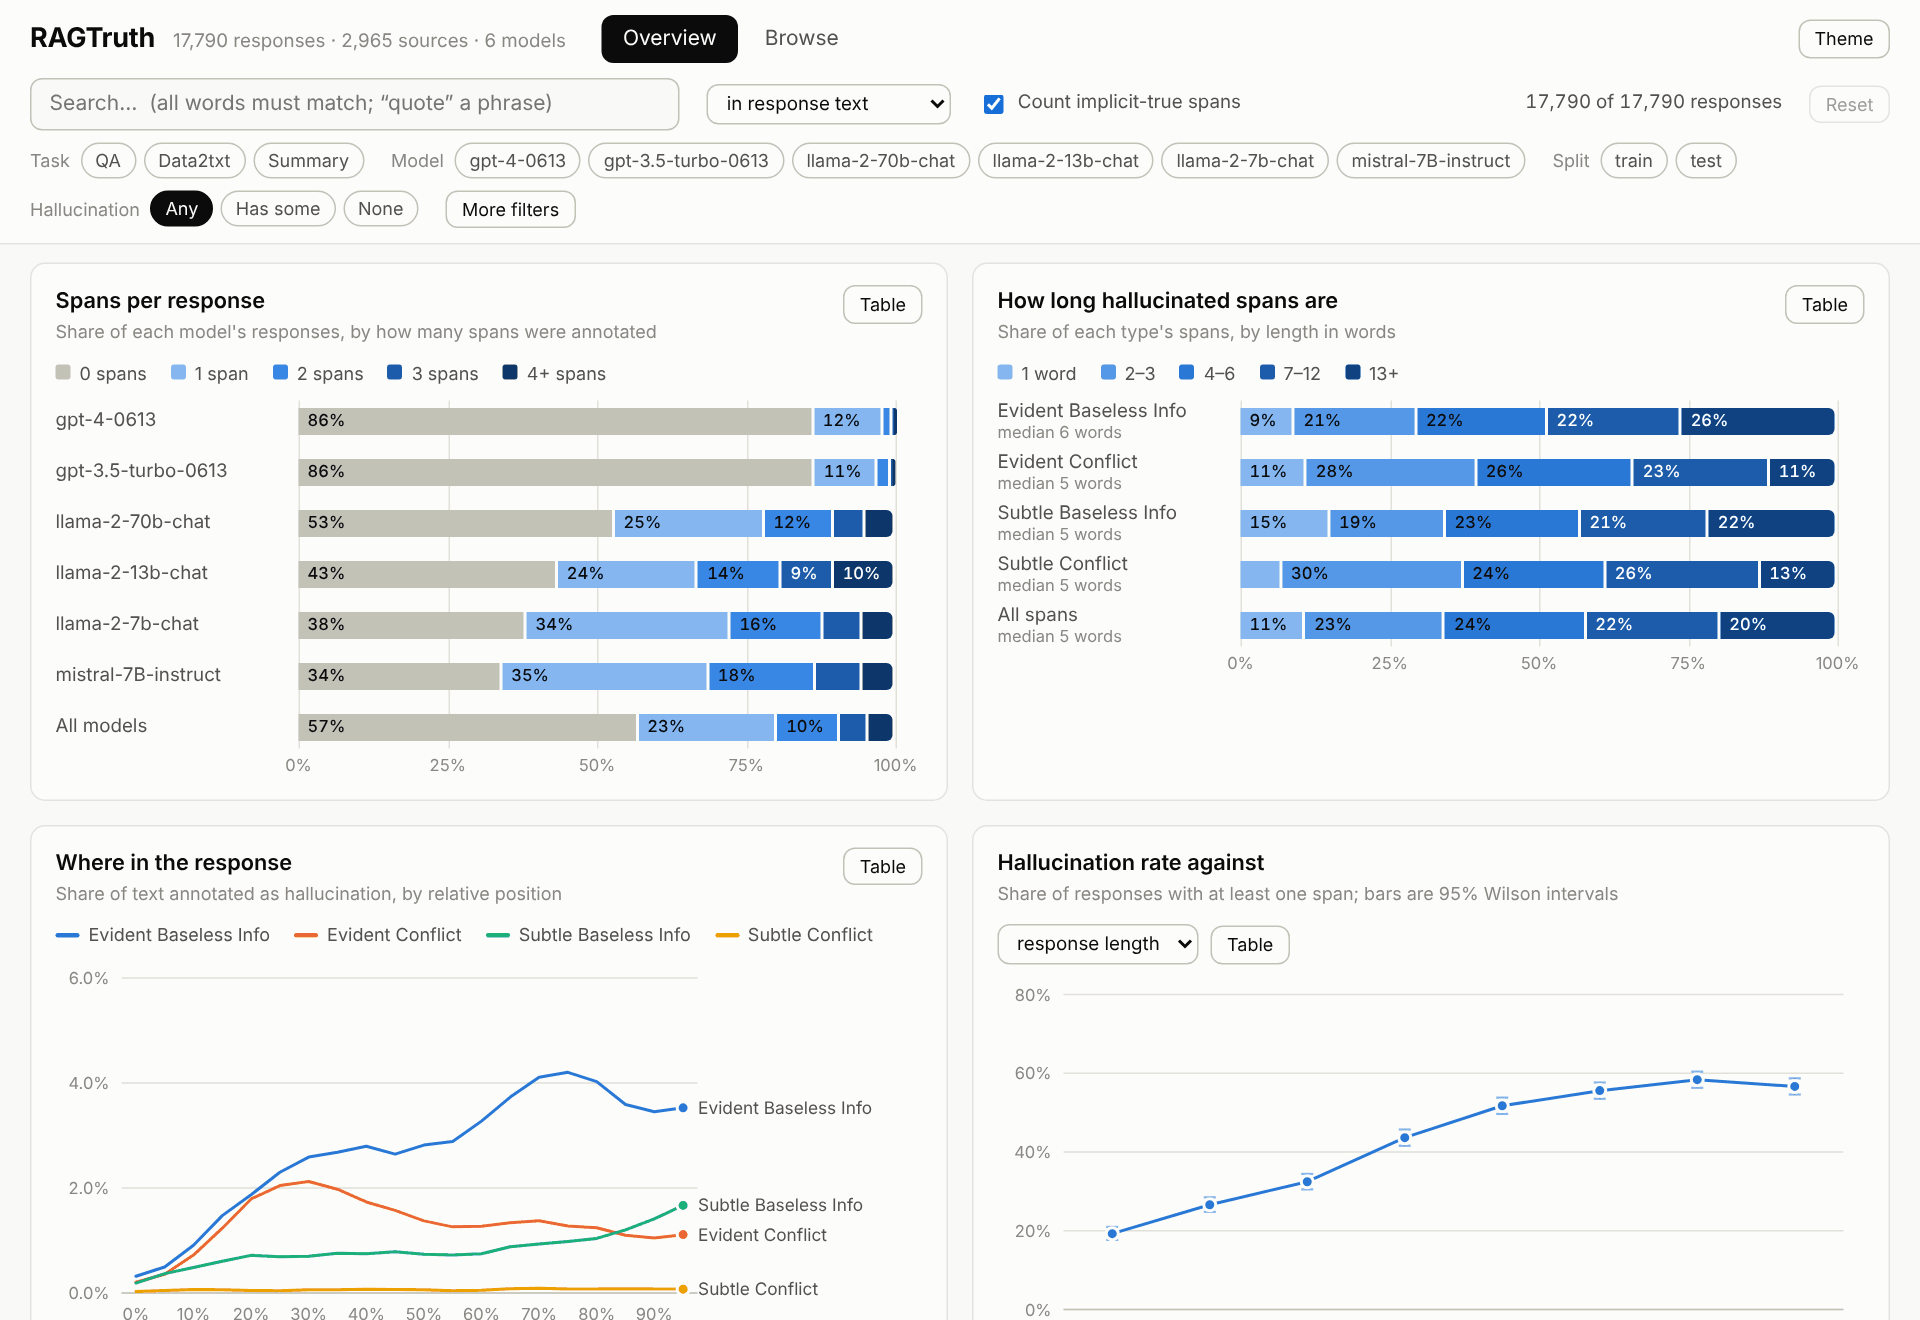
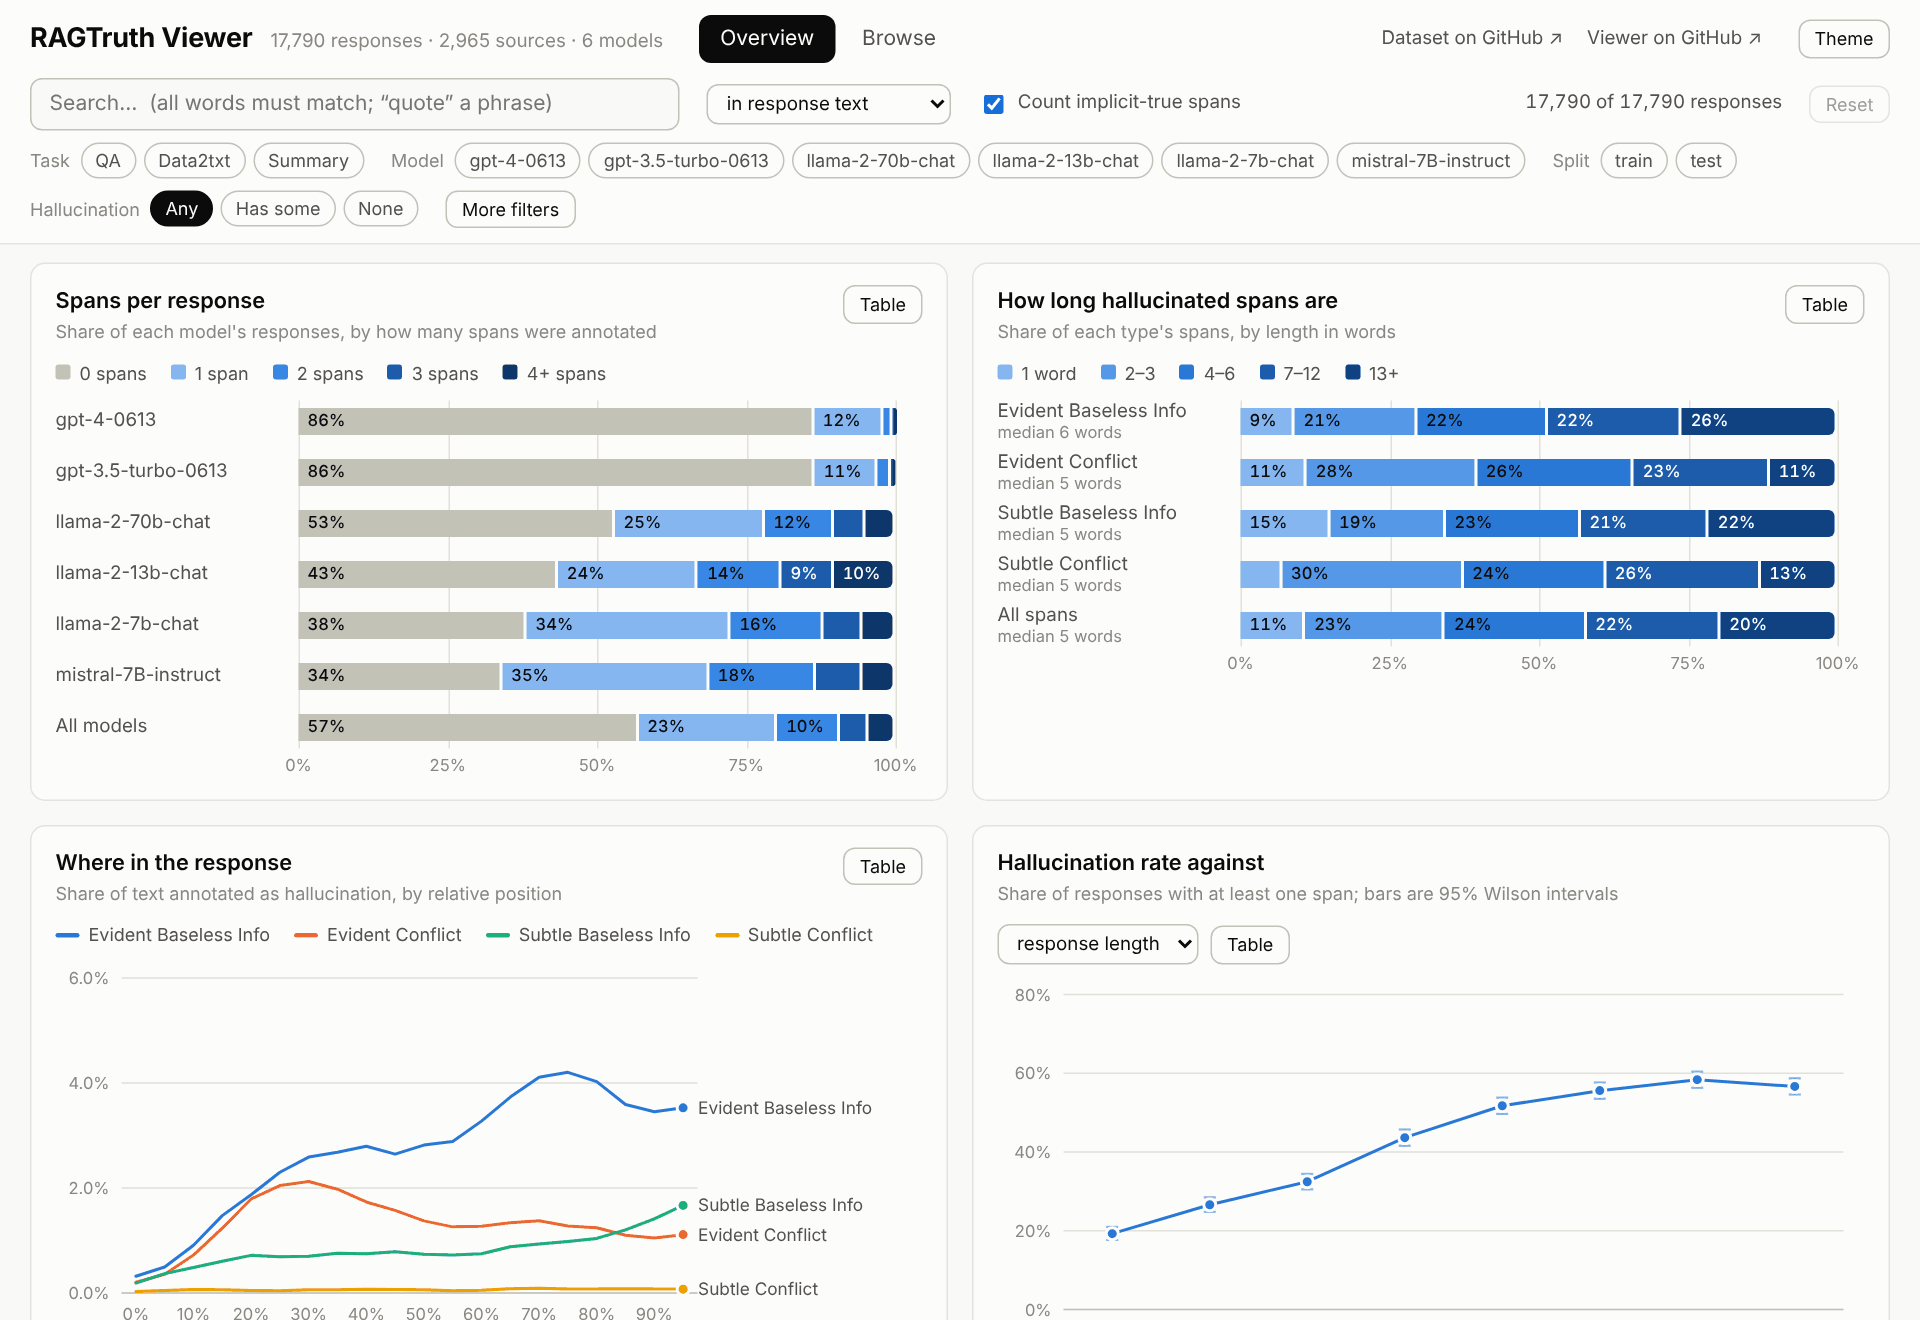
Name the page "RAGTruth Viewer", link both repositories, add the MIT license
- Header title and browser-tab title now read "RAGTruth Viewer"; README,
  justfile and stylesheet use the same name.
- Two links in the header bar, opening in a new tab: the RAGTruth dataset
  repository and this viewer's repository.
- The header row wraps on narrow screens, and the title itself never
  breaks across lines (checked at 1280, 820 and 390 px: no sideways
  scrolling, no console errors).
- LICENSE: the canonical MIT text from github/choosealicense.com, for
  Paul Milovanov; "license": "MIT" in package.json; a License section in
  the README noting that the dataset keeps its own terms.
- README screenshots retaken so they show the new header.

Claude-Session: https://claude.ai/code/session_016GJJcdqNZZ7kHFftnG1Lzm

Changed region(s): [[0.3125, 0.0, 0.4375, 0.0621], [0.0938, 0.0, 0.1562, 0.0621], [0.875, 0.0, 0.9062, 0.0311]]

diff --git a/site/style.css b/site/style.css
@@ -1,4 +1,4 @@
-/* RAGTruth viewer. Colour tokens are the dataviz reference palette (docs: README).
+/* RAGTruth Viewer. Colour tokens are the dataviz reference palette (docs: README).
    Categorical slots 1-4 are the four label types, in fixed order, never recycled:
      --t0 Evident Baseless Info   --t1 Evident Conflict
      --t2 Subtle Baseless Info    --t3 Subtle Conflict                              */
@@ -53,14 +53,17 @@ kbd { font: 11px ui-monospace, monospace; padding: 1px 5px; border: 1px solid va
 
 /* ---------------------------------------------------------------- chrome */
 .chrome { background: var(--surface); border-bottom: 1px solid var(--ring); flex: none; z-index: 20; }
-.top { display: flex; align-items: center; gap: 24px; padding: 10px 20px; }
-.brand { display: flex; align-items: baseline; gap: 12px; }
-.brand h1 { font-size: 18px; font-weight: 650; letter-spacing: -0.01em; }
+.top { display: flex; flex-wrap: wrap; align-items: center; gap: 8px 24px; padding: 10px 20px; }
+.brand { display: flex; flex-wrap: wrap; align-items: baseline; gap: 2px 12px; }
+.brand h1 { font-size: 18px; font-weight: 650; letter-spacing: -0.01em; white-space: nowrap; }
 .tagline { color: var(--muted); font-size: 12.5px; }
 .tabs { display: flex; gap: 4px; margin-right: auto; }
 .tabbtn { border: 0; background: transparent; padding: 6px 14px; border-radius: 8px; cursor: pointer; color: var(--ink2); }
 .tabbtn:hover { background: var(--hover); }
 .tabbtn[aria-selected="true"] { background: var(--ink); color: var(--surface); }
+.links { display: flex; flex-wrap: wrap; gap: 4px 16px; font-size: 12.5px; }
+.links a { color: var(--ink2); text-decoration: none; white-space: nowrap; }
+.links a:hover, .links a:focus-visible { color: var(--ink); text-decoration: underline; }
 
 .filters { padding: 0 20px 10px; display: flex; flex-direction: column; gap: 8px; }
 .frow { display: flex; flex-wrap: wrap; align-items: center; gap: 8px 18px; }

diff --git a/site/index.html b/site/index.html
@@ -3,19 +3,23 @@
 <head>
   <meta charset="utf-8">
   <meta name="viewport" content="width=device-width, initial-scale=1">
-  <title>RAGTruth viewer</title>
+  <title>RAGTruth Viewer</title>
   <link rel="stylesheet" href="style.css">
 </head>
 <body>
   <div class="chrome">
     <header class="top">
       <div class="brand">
-        <h1>RAGTruth</h1>
+        <h1>RAGTruth Viewer</h1>
         <span id="tagline" class="tagline"></span>
       </div>
       <nav class="tabs" role="tablist" aria-label="View">
         <button class="tabbtn" role="tab" data-view="overview" aria-selected="true" title="Aggregate patterns (1)">Overview</button>
         <button class="tabbtn" role="tab" data-view="browse" aria-selected="false" title="Individual responses (2)">Browse</button>
+      </nav>
+      <nav class="links" aria-label="On GitHub">
+        <a href="https://github.com/ParticleMedia/RAGTruth" target="_blank" rel="noopener" title="The RAGTruth dataset and paper">Dataset on GitHub<span aria-hidden="true"> ↗</span></a>
+        <a href="https://github.com/pmilovanov/ragtruth-viewer" target="_blank" rel="noopener" title="This viewer's source code">Viewer on GitHub<span aria-hidden="true"> ↗</span></a>
       </nav>
       <button id="theme" class="btn small" type="button" title="Toggle light/dark (t)">Theme</button>
     </header>

diff --git a/README.md b/README.md
@@ -1,4 +1,4 @@
-# RAGTruth viewer
+# RAGTruth Viewer
 
 **Read, search and chart the [RAGTruth](https://github.com/ParticleMedia/RAGTruth) hallucination dataset in your browser.** See every response with its hallucinated spans highlighted next to the source it was generated from, and see the patterns across all 17,790 responses.
 
@@ -183,6 +183,10 @@ just run           # serve site/ locally
 **Deployment.** `.github/workflows/pages.yml` runs the tests on every pull request, against the real dataset downloaded from the pinned commit, and publishes `site/` to GitHub Pages on every push to `main`. To move to a newer RAGTruth release, change `UPSTREAM_COMMIT` and `SIZES` in `site/js/config.js`; the tests tell you if anything no longer adds up.
 
 Tested in Chromium; other browsers are untried. The viewer was first built in [`pmilovanov/guardrails`](https://github.com/pmilovanov/guardrails), then ported from a small Python server to a static site.
+
+## License
+
+The viewer's code is released under the [MIT License](LICENSE). The RAGTruth dataset is not part of this repository and keeps its own terms (see [Credits and citation](#credits-and-citation)).
 
 ## Credits and citation
 
